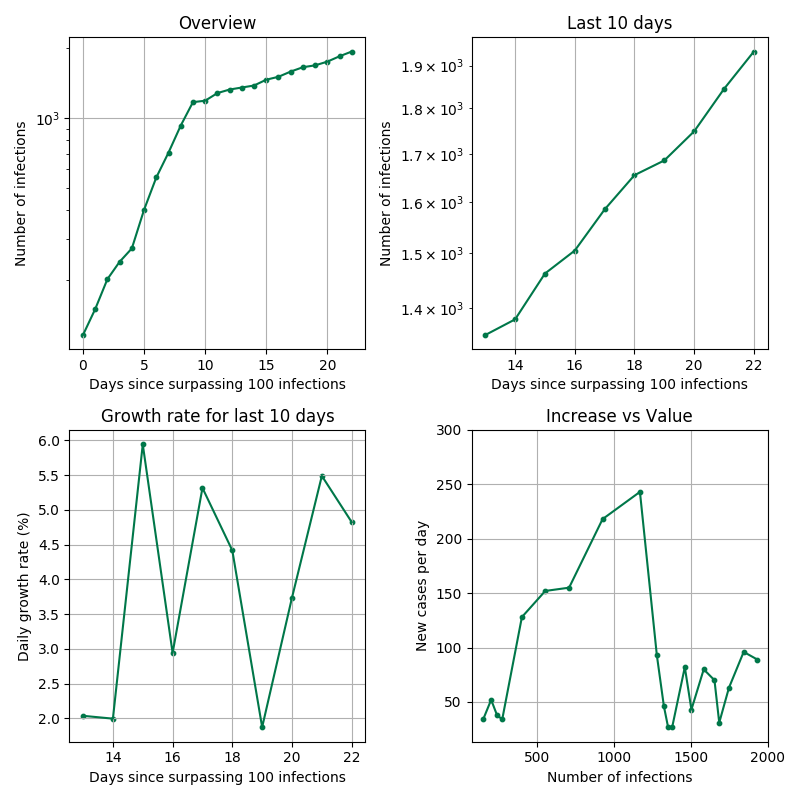
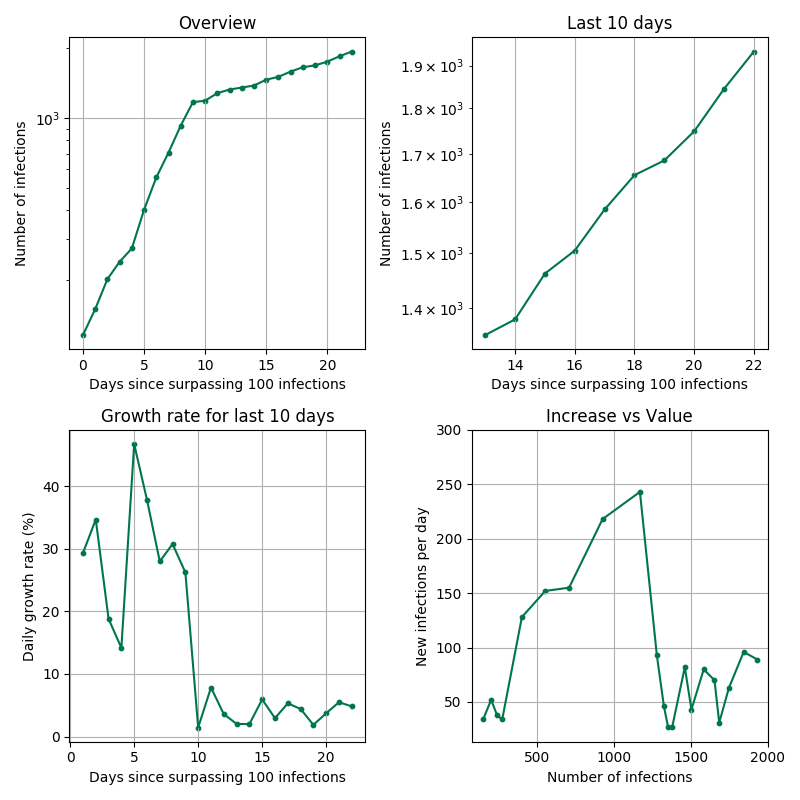
More changes

diff --git a/reports/10-04-2020_report.html b/reports/10-04-2020_report.html
@@ -114,13 +114,13 @@ The table below gives a summary of the latest statistics from various countries.
 <h2> South Africa Analysis</h2>
 <p><img src="cid:reports/10-04-2020_SA.png"</p>
 
-The log-linear graph of infections vs time for the last 10 days has a best-fit line of y = 0.0396x + 4.4728 with a correlation coefficient
+The log-linear graph of infections vs time for the last 10 days has a best-fit line of <i> y = 0.0396x + 4.4728 </i> with a correlation coefficient
 of 0.997. This can be used to predict the short-term spread of the virus. In the model, <i> t </i> represents the number of days since epoch (when the first data regarding COVID-19 was reported).
 
 <table>
 <tr>
 <td> Growth function </td>
-<td> y = 87.601&#215;1.0404<sup> t </sup> </td>
+<td> <i>y = 87.601&#215;1.0404<sup> t </sup> </i> </td>
 </tr>
 <tr>
 <td> Daily growth rate </td>
@@ -146,13 +146,13 @@ of 0.997. This can be used to predict the short-term spread of the virus. In the
 <h2> United Kingdom Analysis</h2>
 <p><img src="cid:reports/10-04-2020_UK.png"</p>
 
-The log-linear graph of infections vs time for the last 10 days has a best-fit line of y = 0.1036x + 3.0639 with a correlation coefficient
+The log-linear graph of infections vs time for the last 10 days has a best-fit line of <i> y = 0.1036x + 3.0639 </i> with a correlation coefficient
 of 0.992. This can be used to predict the short-term spread of the virus. In the model, <i> t </i> represents the number of days since epoch (when the first data regarding COVID-19 was reported).
 
 <table>
 <tr>
 <td> Growth function </td>
-<td> y = 21.4106&#215;1.1092<sup> t </sup> </td>
+<td> <i>y = 21.4106&#215;1.1092<sup> t </sup> </i> </td>
 </tr>
 <tr>
 <td> Daily growth rate </td>
@@ -178,13 +178,13 @@ of 0.992. This can be used to predict the short-term spread of the virus. In the
 <p><img src="cid:reports/10-04-2020_WORLD.png"</p>
 <h3> <u> WORLD: </u> </h3>
 
-The log-linear graph of infections vs time for the last 10 days has a best-fit line of y = 0.0688x + 8.9435 with a correlation coefficient
+The log-linear graph of infections vs time for the last 10 days has a best-fit line of <i> y = 0.0688x + 8.9435 </i> with a correlation coefficient
 of 0.996. This can be used to predict the short-term spread of the virus. In the model, <i> t </i> represents the number of days since epoch (when the first data regarding COVID-19 was reported).
 
 <table>
 <tr>
 <td> Growth function </td>
-<td> y = 7657.7495&#215;1.0712<sup> t </sup> </td>
+<td> <i>y = 7657.7495&#215;1.0712<sup> t </sup> </i> </td>
 </tr>
 <tr>
 <td> Daily growth rate </td>
@@ -206,13 +206,13 @@ of 0.996. This can be used to predict the short-term spread of the virus. In the
 
 <h3> <u> US: </u> </h3>
 
-The log-linear graph of infections vs time for the last 10 days has a best-fit line of y = 0.099x + 5.366 with a correlation coefficient
+The log-linear graph of infections vs time for the last 10 days has a best-fit line of <i> y = 0.099x + 5.366 </i> with a correlation coefficient
 of 0.993. This can be used to predict the short-term spread of the virus. In the model, <i> t </i> represents the number of days since epoch (when the first data regarding COVID-19 was reported).
 
 <table>
 <tr>
 <td> Growth function </td>
-<td> y = 214.0138&#215;1.1041<sup> t </sup> </td>
+<td> <i>y = 214.0138&#215;1.1041<sup> t </sup> </i> </td>
 </tr>
 <tr>
 <td> Daily growth rate </td>
@@ -234,13 +234,13 @@ of 0.993. This can be used to predict the short-term spread of the virus. In the
 
 <h3> <u> Spain: </u> </h3>
 
-The log-linear graph of infections vs time for the last 10 days has a best-fit line of y = 0.0504x + 8.0337 with a correlation coefficient
+The log-linear graph of infections vs time for the last 10 days has a best-fit line of <i> y = 0.0504x + 8.0337 </i> with a correlation coefficient
 of 0.988. This can be used to predict the short-term spread of the virus. In the model, <i> t </i> represents the number of days since epoch (when the first data regarding COVID-19 was reported).
 
 <table>
 <tr>
 <td> Growth function </td>
-<td> y = 3083.2693&#215;1.0517<sup> t </sup> </td>
+<td> <i>y = 3083.2693&#215;1.0517<sup> t </sup> </i> </td>
 </tr>
 <tr>
 <td> Daily growth rate </td>
@@ -262,13 +262,13 @@ of 0.988. This can be used to predict the short-term spread of the virus. In the
 
 <h3> <u> Italy: </u> </h3>
 
-The log-linear graph of infections vs time for the last 10 days has a best-fit line of y = 0.0335x + 9.2757 with a correlation coefficient
+The log-linear graph of infections vs time for the last 10 days has a best-fit line of <i> y = 0.0335x + 9.2757 </i> with a correlation coefficient
 of 0.994. This can be used to predict the short-term spread of the virus. In the model, <i> t </i> represents the number of days since epoch (when the first data regarding COVID-19 was reported).
 
 <table>
 <tr>
 <td> Growth function </td>
-<td> y = 10675.5825&#215;1.034<sup> t </sup> </td>
+<td> <i>y = 10675.5825&#215;1.034<sup> t </sup> </i> </td>
 </tr>
 <tr>
 <td> Daily growth rate </td>
@@ -290,13 +290,13 @@ of 0.994. This can be used to predict the short-term spread of the virus. In the
 
 <h3> <u> France: </u> </h3>
 
-The log-linear graph of infections vs time for the last 10 days has a best-fit line of y = 0.0992x + 4.0294 with a correlation coefficient
+The log-linear graph of infections vs time for the last 10 days has a best-fit line of <i> y = 0.0992x + 4.0294 </i> with a correlation coefficient
 of 0.971. This can be used to predict the short-term spread of the virus. In the model, <i> t </i> represents the number of days since epoch (when the first data regarding COVID-19 was reported).
 
 <table>
 <tr>
 <td> Growth function </td>
-<td> y = 56.227&#215;1.1043<sup> t </sup> </td>
+<td> <i>y = 56.227&#215;1.1043<sup> t </sup> </i> </td>
 </tr>
 <tr>
 <td> Daily growth rate </td>

diff --git a/run.py b/run.py
@@ -62,11 +62,11 @@ def startAnalysis():
     sa_chart.makeScatter(0, 1, restrictedSignificant, SA, "linear", "log", "Days since surpassing " + str(
         MIN_SIGNIFICANT_INFECTIONS) + " infections", "Number of infections", "Last " + str(NUM_DAYS) + " days")
 
-    sa_chart.makeScatter(1, 0, restrictedIncRateSignificant, SA, "linear", "linear", "Days since surpassing " + str(
+    sa_chart.makeScatter(1, 0, incRateSignificant, SA, "linear", "linear", "Days since surpassing " + str(
         MIN_SIGNIFICANT_INFECTIONS) + " infections", "Daily growth rate (%)", "Growth rate for last " + str(NUM_DAYS) + " days")
 
     sa_chart.makeScatter(1, 1, incVsValSignificant, SA, "linear", "linear",
-                         "Number of infections", "New cases per day", "Increase vs Value")
+                         "Number of infections", "New infections per day", "Increase vs Value")
 
     uk_chart = graph.Chart(2, 2, "UK")
 
@@ -76,25 +76,25 @@ def startAnalysis():
     uk_chart.makeScatter(0, 1, restrictedSignificant, UK, "linear", "log", "Days since surpassing " + str(
         MIN_SIGNIFICANT_INFECTIONS) + " infections", "Number of infections", "Last " + str(NUM_DAYS) + " days")
 
-    uk_chart.makeScatter(1, 0, restrictedIncRateSignificant, UK, "linear", "linear", "Days since surpassing " + str(
+    uk_chart.makeScatter(1, 0, incRateSignificant, UK, "linear", "linear", "Days since surpassing " + str(
         MIN_SIGNIFICANT_INFECTIONS) + " infections", "Daily growth rate (%)", "Growth rate for last " + str(NUM_DAYS) + " days")
 
-    uk_chart.makeScatter(1, 1, incVsValSignificant, UK, "linear", "linear",
-                         "Number of infections", "New cases per day", "Increase vs Value")
+    uk_chart.makeScatter(1, 1, incVsValSignificant, UK, "log", "log",
+                         "Number of infections", "New infections per day", "Increase vs Value")
 
     world_chart = graph.Chart(2, 2, "WORLD")
 
     world_chart.makeScatter(0, 0, sinceSignificant, highestCountries, "linear",
-                            "log", "Days since surpassing " + str(MIN_SIGNIFICANT_INFECTIONS) + " infections", "Num infections", "Current highest countries")
+                            "log", "Days since surpassing " + str(MIN_SIGNIFICANT_INFECTIONS) + " infections", "Number of infections", "Current highest countries")
 
     world_chart.makeScatter(0, 1, restrictedEpoch, highestCountries, "linear",
-                            "log", "Days since epoch", "Num infections", "Last " + str(NUM_DAYS) + " days")
+                            "log", "Days since epoch", "Number of infections", "Last " + str(NUM_DAYS) + " days")
 
     world_chart.makeScatter(1, 0, restrictedIncRateEpoch, highestCountries, "linear", "linear",
                             "Days since epoch", "Growth rate (%)", "Growth rate for last " + str(NUM_DAYS) + " days")
 
     world_chart.makeScatter(1, 1, incVsValEpoch, highestCountries, "log", "log",
-                            "Number of cases", "Number of new cases per day", "Increase vs Value")
+                            "Number of infections", "New infections per day", "Increase vs Value")
 
     if DISPLAY_MODE:
         sa_chart.displayImage()
@@ -194,14 +194,14 @@ def displayTrend(c, dat):
     for country in c:
         if len(c) > 1:
             r += "<h3> <u> {}: </u> </h3>\n".format(country)
-        func = "y = "
+        func = "<i>y = "
         a = bestFit[country][0]
         b = bestFit[country][1]
         func += str(round(math.exp(a), 4)) + "&#215;"
-        func += str(round(math.exp(b), 4)) + "<sup> t </sup>"
+        func += str(round(math.exp(b), 4)) + "<sup> t </sup> </i>"
         print(country, func)
         r += """
-The log-linear graph of infections vs time for the last {:n} days has a best-fit line of y = {:n}x + {:n} with a correlation coefficient
+The log-linear graph of infections vs time for the last {:n} days has a best-fit line of <i> y = {:n}x + {:n} </i> with a correlation coefficient
 of {:n}. This can be used to predict the short-term spread of the virus. In the model, <i> t </i> represents the number of days since epoch (when the first data regarding COVID-19 was reported).
 
 <table>

diff --git a/share.py b/share.py
@@ -6,11 +6,6 @@ from email.mime.text import MIMEText
 
 from datetime import date
 
-MAILING_LIST = ["ralphmcdougall2000@gmail.com",
-                "maryke.mcdougall@astronenergy.co.za",
-                "mcdougal@mweb.co.za",
-                "alisonh.smith@btinternet.com"
-                ]
 
 STYLING = """<style>
 body {
@@ -71,15 +66,19 @@ def sendEmail(covInfo, images, testing):
     msg = MIMEMultipart()
     today = date.today()
     d = today.strftime("%d %B %Y")
-    li = []
     msg["Subject"] = "COVID-19 Analysis: " + d
     msg["From"] = ME
+    MAILING_LIST = []
 
     if not testing:
-        li = MAILING_LIST[::]
+        print("GETTING MAILING LIST")
+        with open("mailing_list.txt", "r") as f:
+            MAILING_LIST = f.readlines()
+            MAILING_LIST = map(lambda v: v.strip(), MAILING_LIST)
+            f.close()
     else:
-        li = [ME]
-    msg["To"] = ", ".join(li)
+        MAILING_LIST = [ME]
+    msg["To"] = ", ".join(MAILING_LIST)
 
     print()
     print("From:", msg["From"])
@@ -121,6 +120,6 @@ def sendEmail(covInfo, images, testing):
     s.ehlo()
     s.starttls()
     s.login(ME, PASSWORD)
-    s.sendmail(ME, li, msg.as_string())
+    s.sendmail(ME, MAILING_LIST, msg.as_string())
     s.quit()
     print("Success")
